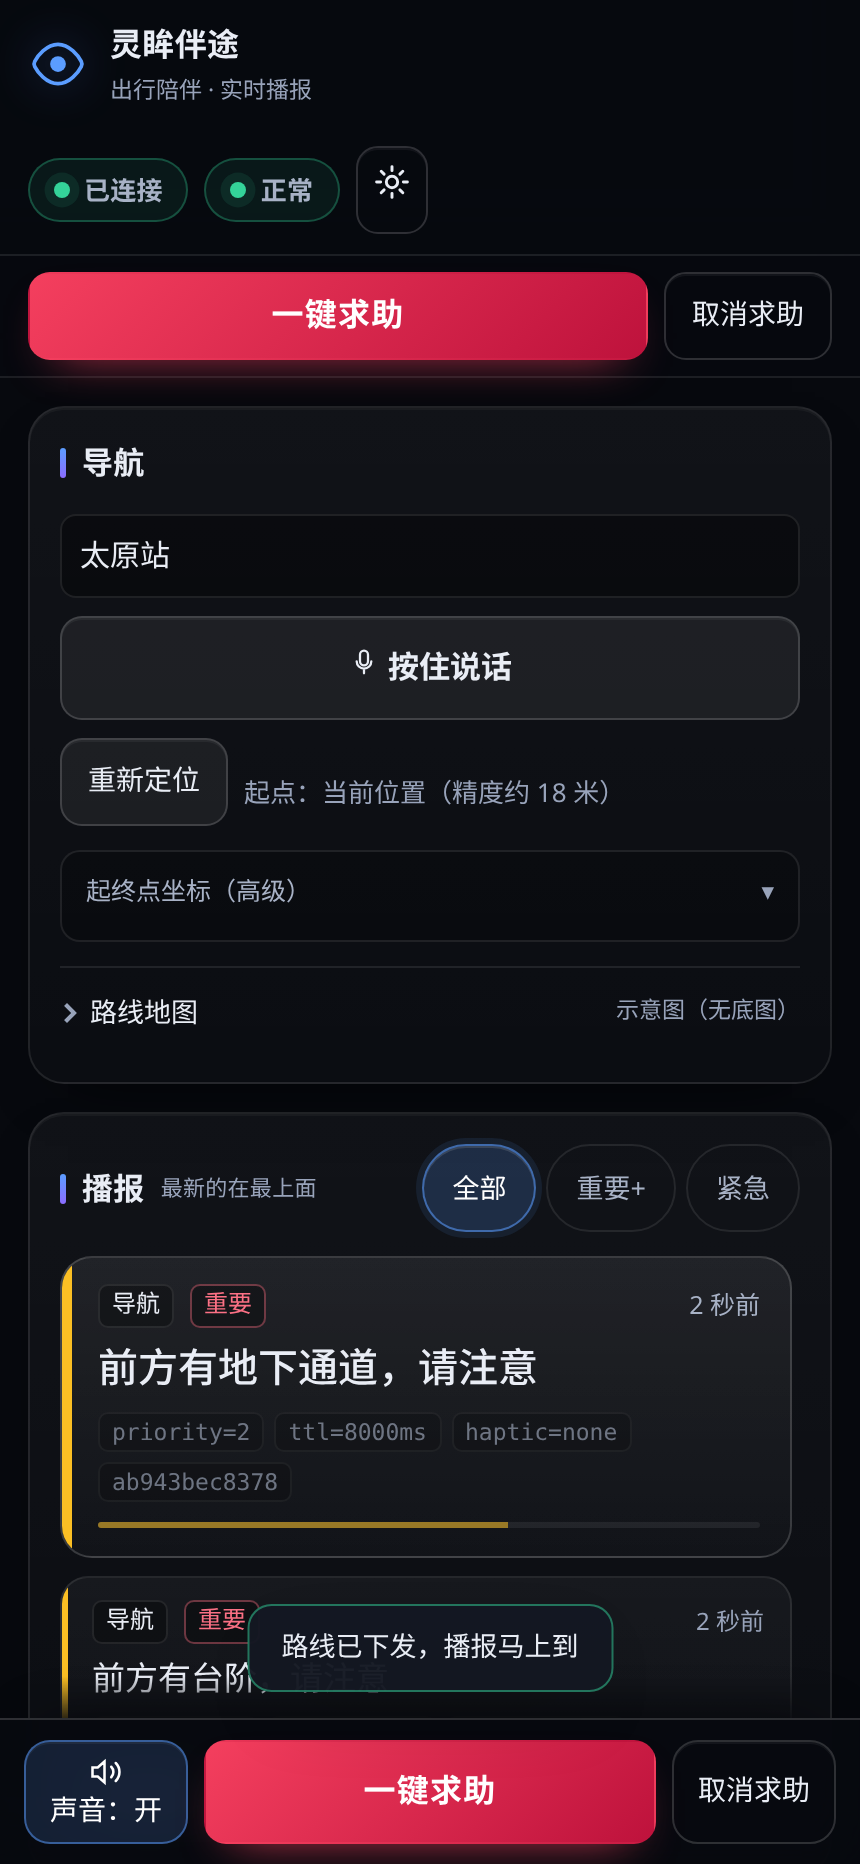
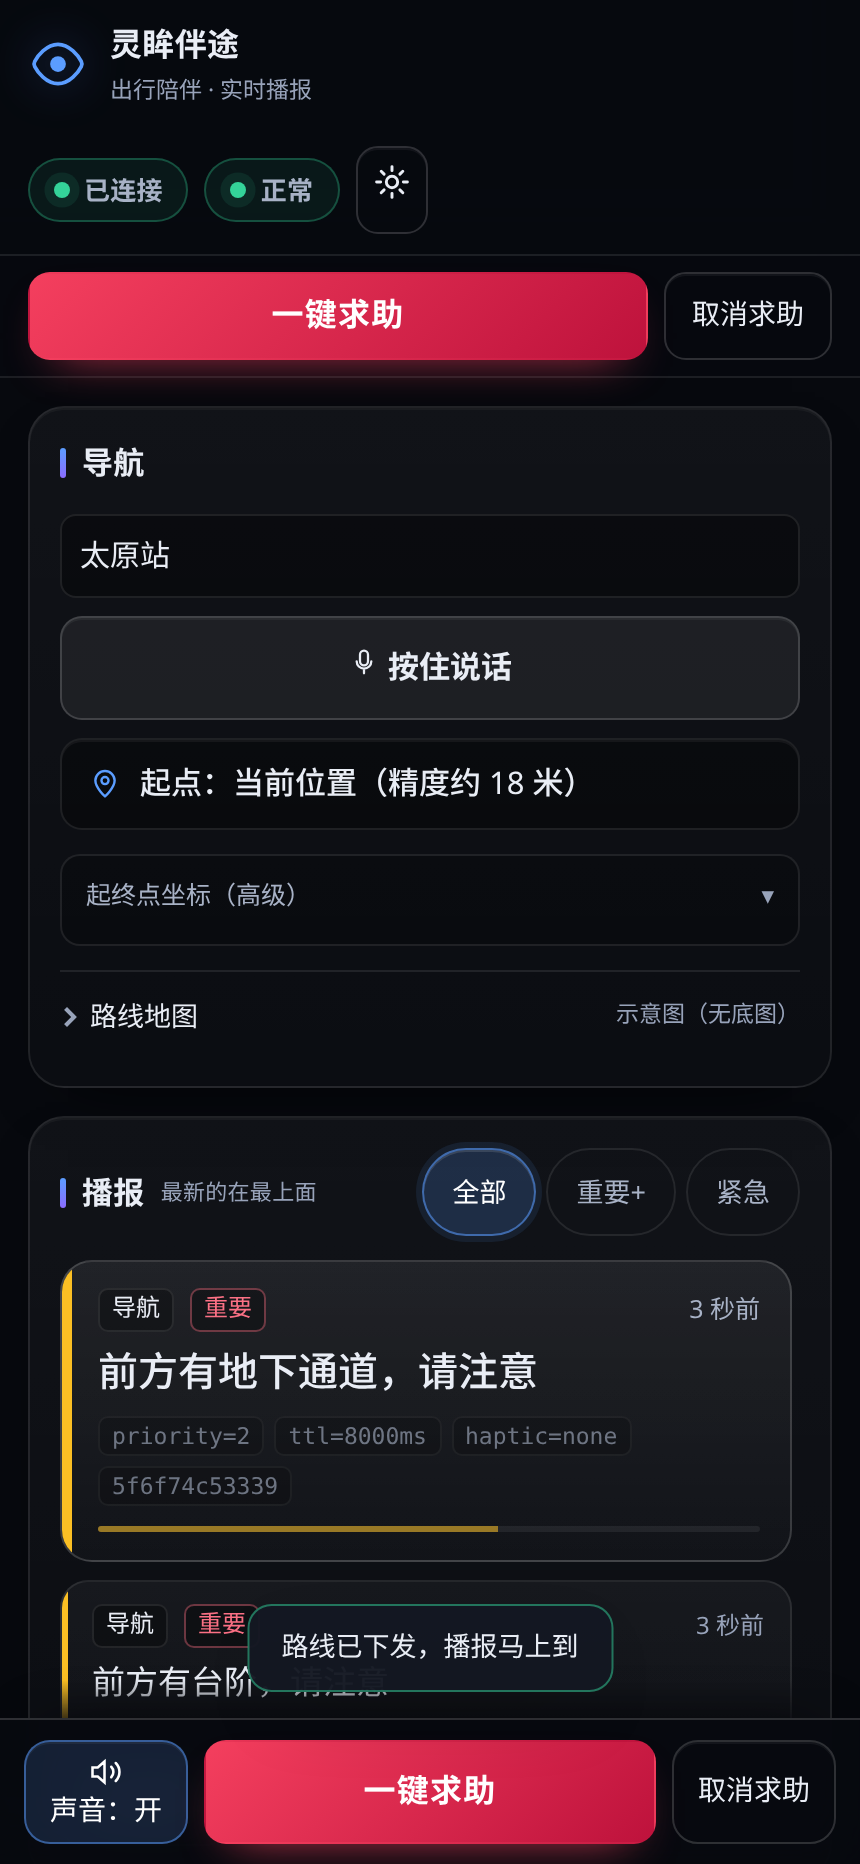
feat(web): 起点改成显示框（读数 + 点击即重新定位）
「重新定位」那枚按钮和旁边那行状态字本来是**同一件事**（起点从哪算的 / 让它
重新算一遍），拆成两块之后，看不见屏幕的人得先弄清那行字讲的是哪件事、又要去
按哪个按钮。现在合成一个框：

  起点：当前位置（精度约 18 米）      ← 常态
  起点：默认坐标（没给定位权限）      ← 降级，标黄 + 出声
  起点：定位中…                      ← 正在取

- `#geoBtn` 是框本身（点一下 = 重新定位），文字在 `#geoTxt` 里（和
  talkTxt / ttsTxt / hTxt 一个写法）；`aria-label` 把动作一起说出来
  （「起点：当前位置（精度约 18 米）。点击重新定位」）——只写状态的话，
  读屏用户会以为那是一块文字，不知道能按。
- 顺手补上 9 秒兜底：两个回调都不来时（实测遇到过）如实写「定位没有响应」
  并出声。原来的写法会让框**永远停在「定位中…」**，用户在等一个永远不会来的
  结果 —— 属于这个项目最忌讳的沉默失效。
- 定位中不把整块读数调暗（覆盖 `.btn:disabled` 的 opacity）：那会让人以为
  「起点」这件事本身坏了；忙不忙由框里的字说。

截图与文档同步（README / 工作管理.md），data/main_gui.png 重拍。

diff --git a/web/js/nav.js b/web/js/nav.js
@@ -6,11 +6,14 @@
  *   一环。可那个按钮对用户已经完全多余了：语音是**松开就出发**，打字走回车。
  *   把路抽成一个函数，两条输入都调它，按钮就可以删掉了（少一个要用户找的东西）。
  *
- * ★ 起点 = 当前位置，自动取，不是按钮。
+ * ★ 起点 = 当前位置，自动取。
  *   这一页服务的是**正在走的人**，起点就是「他此刻在哪」，没有第二种可能。
  *   原来默认写死一组太原工业学院的坐标、旁边放一个「用当前位置」——
  *   把一个本来确定的事实变成了要用户去按一下的选项（还得先意识到要按）。
- *   现在：进页面就定位；拿不到就**如实说拿不到**并把默认值摆明（`.hint.warn`），
+ *   现在页面上的那个框是**读数 + 重试**：写的就是起点从哪算的，点一下重取
+ *   （见 index.html 里 `#geoBtn` / `#geoTxt`。原先是一个「重新定位」按钮 +
+ *   旁边一行状态字两块，读屏用户得先弄清那行字讲的是哪件事）。
+ *   现在：进页面就定位；拿不到就**如实说拿不到**并把默认值摆明（显示框标黄），
  *   而不是默默用一组假坐标规划出一条煞有介事的路线。
  */
 
@@ -54,23 +57,35 @@ export async function submitRoute() {
   }
 }
 
-/** 起点状态写在这行字上（它同时是给读屏的状态区）。 */
+/** 起点状态就写在**显示框**上（2026-09-23 改）。
+ *
+ *  ★ 为什么状态和动作合成一个东西：原先是一个「重新定位」按钮 + 旁边一行状态字
+ *    两块。看不见屏幕的人得先弄清那行字讲的是哪件事、又要去按哪个按钮；
+ *    而这两件事本来就是同一件 —— 「起点是从哪算的」和「让它重新算一遍」。
+ *    现在框里写的就是状态，点框就是重新定位（`aria-label` 把动作也说出来）。
+ *
+ *  ★ 降级必须看得见、也读得出：框里写「默认坐标（原因）」并标黄，
+ *    读屏念到的也是同一句（外加「点击重新定位」）—— 用户听到的路线是从哪
+ *    出发的，这是他唯一的线索。
+ */
 function paintOrigin(accuracy, why) {
-  const note = $("originNote");
-  if (why) {
-    // ★ 降级必须看得见、也读得出：这行字是「你听到的路线是从哪出发的」的唯一线索。
-    note.textContent = `起点：默认坐标（${why}）—— 可在「起终点坐标」里手动改`;
-    note.classList.add("warn");
-    return;
-  }
-  note.textContent = `起点：当前位置（精度约 ${Math.round(accuracy)} 米）`;
-  note.classList.remove("warn");
+  const btn = $("geoBtn");
+  const txt = $("geoTxt");
+  const state = why
+    ? `默认坐标（${why}）`
+    : `当前位置（精度约 ${Math.round(accuracy)} 米）`;
+  txt.textContent = `起点：${state}`;
+  // ★ 动作写进 aria-label：框里那行字是可读的**状态**，而它同时是个按钮 ——
+  //   不把「点它可以重新定位」说出来，读屏用户只会以为那是一块文字。
+  btn.setAttribute("aria-label", `起点：${state}。点击重新定位`);
+  btn.classList.toggle("warn", !!why);
 }
 
-/** 取当前位置。`manual` = 用户按了「重新定位」，这时要出声确认。 */
+/** 取当前位置。`manual` = 用户点了那个框（重新定位），这时要出声确认。 */
 function locate({ manual }) {
   const btn = $("geoBtn");
-  const reset = () => { btn.disabled = false; btn.textContent = "重新定位"; };
+  let done = false;
+  const finish = () => { done = true; btn.disabled = false; };
 
   if (!navigator.geolocation) {
     paintOrigin(null, "这个浏览器不提供定位");
@@ -78,7 +93,7 @@ function locate({ manual }) {
     return;
   }
   btn.disabled = true;
-  if (manual) btn.textContent = "定位中…";
+  $("geoTxt").textContent = "起点：定位中…";
 
   navigator.geolocation.getCurrentPosition(
     (pos) => {
@@ -90,7 +105,7 @@ function locate({ manual }) {
       if (manual) {
         confirmAction(`起点已更新（精度约 ${Math.round(pos.coords.accuracy)} 米）`, "ok");
       }
-      reset();
+      finish();
     },
     (err) => {
       // 定位只在 https 或 localhost 下可用 —— 局域网 IP 直连会被浏览器拒绝。
@@ -108,10 +123,20 @@ function locate({ manual }) {
           { priority: 2, hapticKind: "double" },
         );
       }
-      reset();
+      finish();
     },
     { enableHighAccuracy: true, timeout: 8000, maximumAge: 30_000 },
   );
+
+  // 兜底：某些实现两个回调都不来（实测遇到过），框不能永远停在「定位中…」
+  // —— 那是**沉默失效**：用户会一直等一个永远不会来的结果。
+  setTimeout(() => {
+    if (done) return;
+    paintOrigin(null, "定位没有响应");
+    if (manual) confirmAction("定位没有响应，请重试", "err");
+    else localNote("起点定位没有响应，这次按默认坐标规划。", { priority: 2, hapticKind: "double" });
+    btn.disabled = false;
+  }, 9000);
 }
 
 export function initOrigin() {

diff --git a/web/index.html b/web/index.html
@@ -142,15 +142,19 @@
              只会让人以为「说完还得再按一下」，多一步、多一个要摸的东西。
              两条路在 `js/nav.js::submitRoute()` 上合成一条，那是唯一的出口。 -->
       <div class="row">
-        <!-- 起点默认就是当前位置，进页面自动取 —— 它现在是**重试**用的：
-             定位失败（没权限 / 不是 https / 不是 localhost）时再按一次。 -->
-        <button class="btn" id="geoBtn" title="重新用手机定位取起点">重新定位</button>
-        <!-- 起点**是从哪算的**必须写在明面上：看不到屏幕的人靠这行字（读屏）
-             确认系统知道他在哪；陪同者靠它判断有没有真的定到。
+        <!-- ★ 起点：**显示框**，不是按钮（2026-09-23 改）。
+             框里写的就是「起点是从哪算的」，点一下重新定位 —— 状态与动作是
+             同一件事，合成一个东西，少一个要用户去配对的按钮。
+             进页面自动取；拿不到就如实写「默认坐标（原因）」并标黄 + 播报。
              ★ 不加 aria-live：要出声的只有**降级**那一种情况，走 nav.js 的
                localNote（TTS / 读屏二选一，见 ui.js::paintTts 的规矩）；
-               常态下没有新消息就不该有声音。 -->
-        <p class="hint" id="originNote">起点：定位中…</p>
+               常态下没有新消息就不该有声音。
+             ★ 文字在 #geoTxt 里（和 talkTxt / ttsTxt / hTxt 一个写法），
+               读屏读到的是 aria-label（含「点击重新定位」）。 -->
+        <button class="btn geo wide" id="geoBtn" type="button" title="点击重新定位起点">
+          <svg viewBox="0 0 24 24" aria-hidden="true"><path d="M12 21.5s6.8-6.2 6.8-11.2a6.8 6.8 0 1 0-13.6 0c0 5 6.8 11.2 6.8 11.2z" fill="none" stroke="currentColor" stroke-width="1.7" stroke-linejoin="round"/><circle cx="12" cy="10.3" r="2.5" fill="none" stroke="currentColor" stroke-width="1.7"/></svg>
+          <span id="geoTxt">起点：定位中…</span>
+        </button>
       </div>
 
       <details class="adv">

diff --git a/web/app.css b/web/app.css
@@ -191,10 +191,7 @@ main {
 .field span { font-size: 11px; }
 
 .hint { margin: 11px 0 0; font-size: 12px; color: var(--dim); }
-/* 降级提示（起点没定到、只能用默认坐标）。★ 颜色只是第三重编码 ——
-   这行字本身就写着「默认坐标（原因）」，颜色只是让它**在该被注意到时**
-   自己跳出来；不是靠颜色来表达「出事了」。 */
-.hint.warn { color: var(--warn); }
+
 .hint b { color: var(--fg-2); font-weight: 600; }
 code {
   font: 11.5px/1.5 var(--mono); color: var(--fg-2);
@@ -680,6 +677,24 @@ video { display: block; width: 100%; }
 }
 @keyframes listen-pulse { 50% { box-shadow: 0 0 0 7px rgba(91, 157, 255, .12); } }
 .phone .btn.hold.dead { color: var(--bad); border-color: rgba(251, 113, 133, .5); }
+
+/* 起点显示框（2026-09-23 改）：它既是「起点是从哪算的」的读数，也是那个
+   重新定位的按钮 —— 两件事本来就是同一件。
+   ★ 底色压暗、左对齐：让它读起来像一块**读数框**，而不是又一颗要按的按钮
+     （这一页上要按的东西越少越好）。
+   ★ 颜色只是第三重编码：框里的字永远写着「默认坐标（原因）」。 */
+.phone .btn.geo {
+  display: flex; align-items: center; justify-content: flex-start;
+  gap: 9px; width: 100%; text-align: left; line-height: 1.35;
+  font-weight: 500; background: rgba(0, 0, 0, .3); border-color: var(--line);
+}
+.phone .btn.geo svg { width: 17px; height: 17px; flex: none; color: var(--accent); }
+.phone .btn.geo.warn { color: var(--warn); border-color: rgba(251, 191, 36, .35); }
+.phone .btn.geo.warn svg { color: var(--warn); }
+/* 定位中不把读数整块调暗（.btn:disabled 的 opacity: .4）—— 那会让人以为
+   「起点」这件事本身坏了。忙不忙由框里的字说（「起点：定位中…」）。 */
+.phone .btn.geo:disabled { opacity: 1; cursor: progress; }
+.phone .btn.geo #geoTxt { min-width: 0; }
 
 .btn.wide { flex: 1; min-height: 46px; font-size: 15.5px; font-weight: 600; }
 .btn.icon { padding: 6px; min-width: 36px; }

diff --git a/tests/test_api.py b/tests/test_api.py
@@ -1023,9 +1023,13 @@ def test_navigation_origin_defaults_to_where_the_user_is(client):
         "自动定位失败必须出声（那一刻没有任何按钮被按过），不能只在页面上变个色"
     assert "paintOrigin(null, why)" in body, "同时要把「用的是默认坐标」写在页面上"
 
+    # 起点状态就写在那个**显示框**上（它同时是重新定位的按钮，2026-09-23）：
+    # 状态与动作合成一个东西，少一个要用户去配对的按钮。
     html = html_body(client)
-    assert 'id="originNote"' in html, "起点状态要有地方显示（读屏也要读得到）"
-    assert 'id="geoBtn"' in html, "手动重试定位的入口要留着"
+    assert 'id="geoBtn"' in html and 'id="geoTxt"' in html, \
+        "起点显示框（读数 + 点击重新定位）要在页面上"
+    assert "aria-label" in js and "。点击重新定位" in js, \
+        "读屏要知道那个框是可以按的，不能只当它是一行字"
 
 
 def test_voice_input_says_so_when_it_cannot_work(client):

diff --git a/工作管理.md b/工作管理.md
@@ -267,6 +267,7 @@ python scripts/run_video.py data/demo.mp4    # 喂视频看播报
 | 2026-09-23 | 断网 / 降级**出声**：`main.js` 断连 5 秒迟滞后播报「网络断开正在重连」，恢复时报出断了多少秒；`dev.js` 健康检查只在「变坏 / 变好」的边沿出声。生死按钮按下即震动 + 播报 | 这两件事原来只改颜色和文字。对看不见屏幕的人，「断开」和「一切正常、只是没人说话」是同一件事 —— 而 README 自己写着「用户会把『没出声』理解成『环境安全』」 | 前端（产品界面） |
 | 2026-09-23 | 新增 `web/js/voice.js`：目的地改成**按住说话**（长按起录、松开出结果），识别文本落进 `#dest` 后按下既有的导航按钮 | 目的地是这一页唯一要打字的地方，而用户看不见那格 —— 打字 = 屏幕键盘 + 盲目逐字确认。**不新增请求路径**：语音只换「怎么把字填进去」 | 前端（产品界面 / 端侧） |
 | 2026-09-23 | 新增 `web/js/nav.js`（**第三层唯一的提交路径**）：`submitRoute()` 同时供「按住说话」与「打字回车」调用；导航卡**删掉「开始导航」按钮**；起点改成进页面**自动取当前位置**，拿不到就如实降级（起点行标黄 + 播报「这次按默认坐标规划」）；「用当前位置」改成重试用的「重新定位」 | ① 那个按钮对用户完全多余（语音松开即走、打字敲回车），而它当时是这条路上**不可删的一环**（语音靠 `button[data-dest].click()` 去按它）—— 按钮一删，两条输入就只剩一个出口。② 起点原本写死一组坐标 + 一个「用当前位置」，把「他此刻在哪」这个**确定的事实**变成了要用户先意识到、再去按的选项；这一页服务的正是**正在走的人** | 前端（产品界面 / 端侧） |
+| 2026-09-23 | 起点那个「重新定位」按钮改成**显示框**（`#geoBtn` + `#geoTxt`）：框里写的就是「起点从哪算的」（当前位置 + 精度 / 默认坐标 + 原因），点一下即重新定位；另加 9 秒兜底 —— 两个回调都不来时如实写「定位没有响应」并出声 | 状态与动作本来就是同一件事，拆成「按钮 + 旁边一行状态字」两块，读屏用户得先弄清那行字讲的是哪件事、又要去按哪个按钮。兜底那条是**沉默失效**：框会永远停在「定位中…」，用户在等一个永远不来的结果 | 前端（产品界面 / 端侧） |
 | 2026-09-23 | `confirmAction` 从 `dev.js` 搬到 `ui.js`（`export`） | 导航（产品功能）也要它，而产品功能不该反向 import 调试件 —— `dev.js` 的头注释正是按这条界线写的 | 前端 |
 
 > **契约兼容性原则：** 只加可选字段，不改已有字段名和类型，不删字段。

diff --git a/README.md b/README.md
@@ -106,10 +106,14 @@ uvicorn app.main:app --host 0.0.0.0 --port 8000
 
 **起点 = 当前位置，进页面自动取。** 这一页服务的是**正在走的人**，起点就是他
 此刻在哪，没有第二种可能 —— 所以它不是一道要用户先意识到、再去按的选择题。
-拿不到定位（没权限 / 不是 HTTPS / 不是 localhost）时**如实降级并出声**：起点那
-行字改成「默认坐标（原因）」并标黄，同时走一条播报说明「这次按默认坐标规划，
-可能不是你此刻的位置」。那一刻没有任何按钮被按过，不说的话用户会以为路线是从
-他脚下算的。卡片里那枚「重新定位」是重试用的。
+拿不到定位（没权限 / 不是 HTTPS / 不是 localhost）时**如实降级并出声**：起点框
+改成「默认坐标（原因）」并标黄，同时走一条播报说明「这次按默认坐标规划，可能
+不是你此刻的位置」。那一刻没有任何按钮被按过，不说的话用户会以为路线是从他脚下
+算的。
+
+卡片里那个框是**读数 + 重试**：写的就是起点从哪算的，点一下即重新定位
+（`#geoBtn` / `#geoTxt`）。原先「重新定位」按钮和旁边那行状态字是两块 —— 读屏
+用户得先弄清那行字讲的是哪件事、又要去按哪个按钮，而这两件事本来就是同一件。
 
 两个容易踩的坑都钉了用例：`touch-action: none` 是长按的**功能前提**（不关掉
 浏览器手势，长按会变成选中/滚动，`pointerup` 收不到，交互直接废）；收尾
